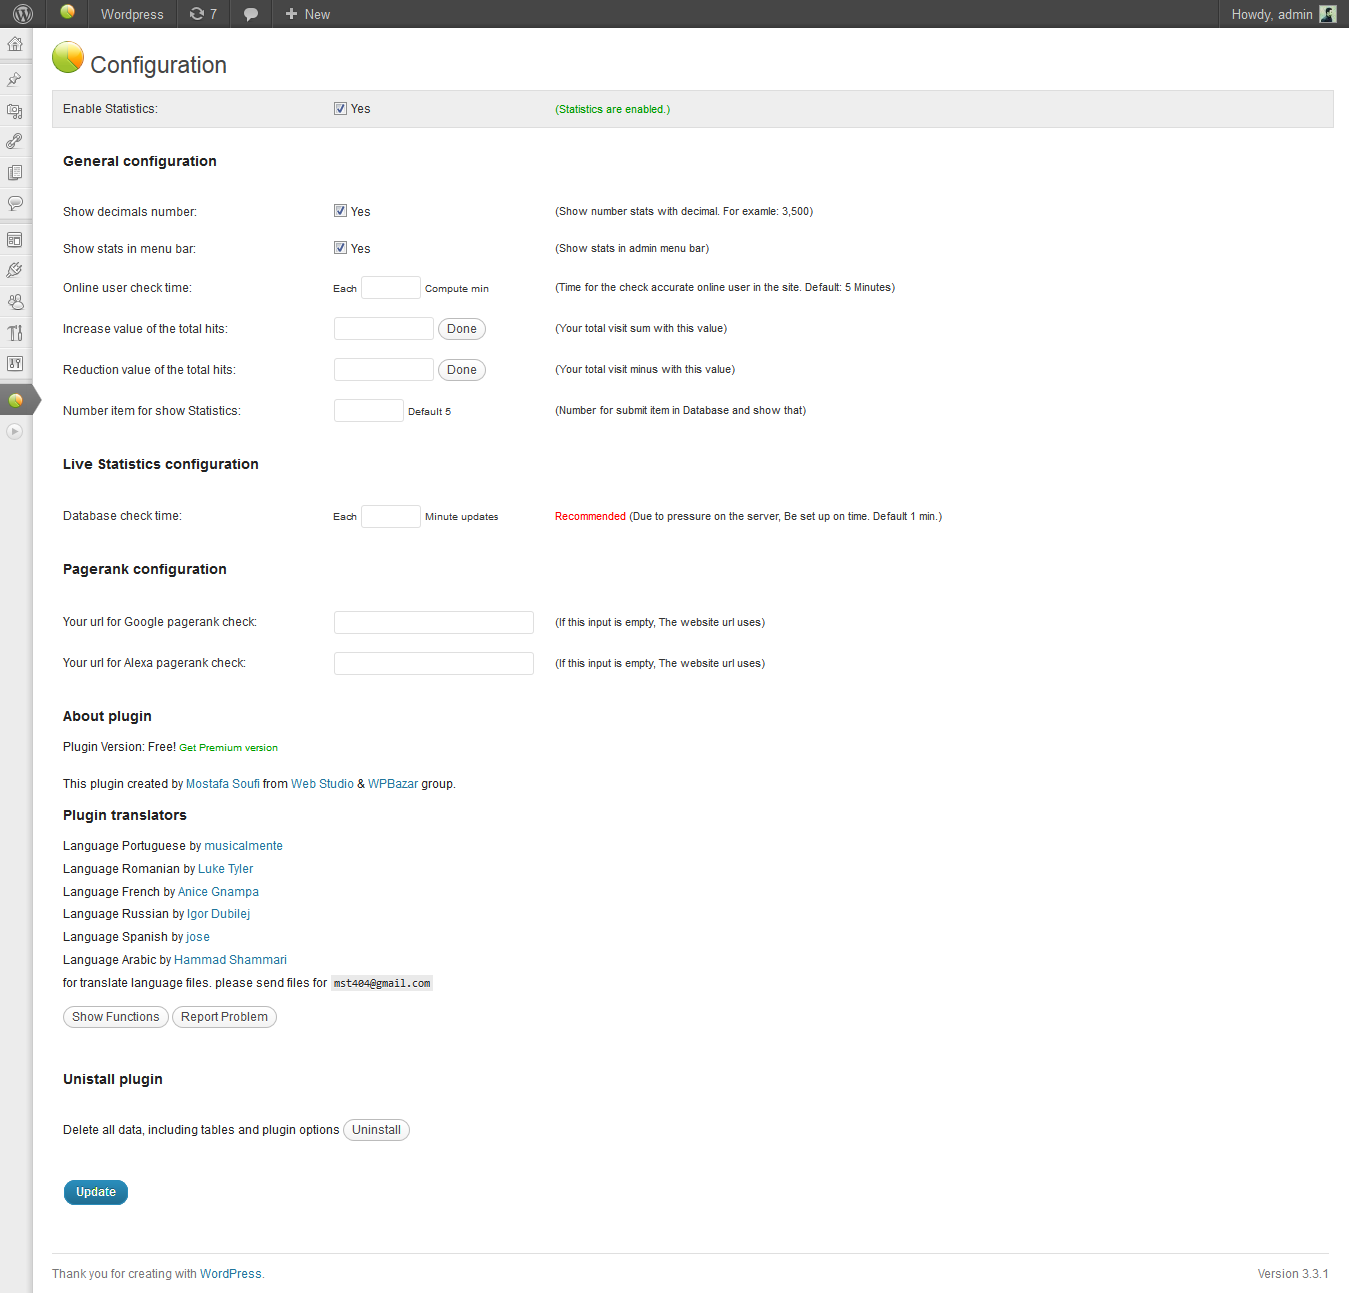
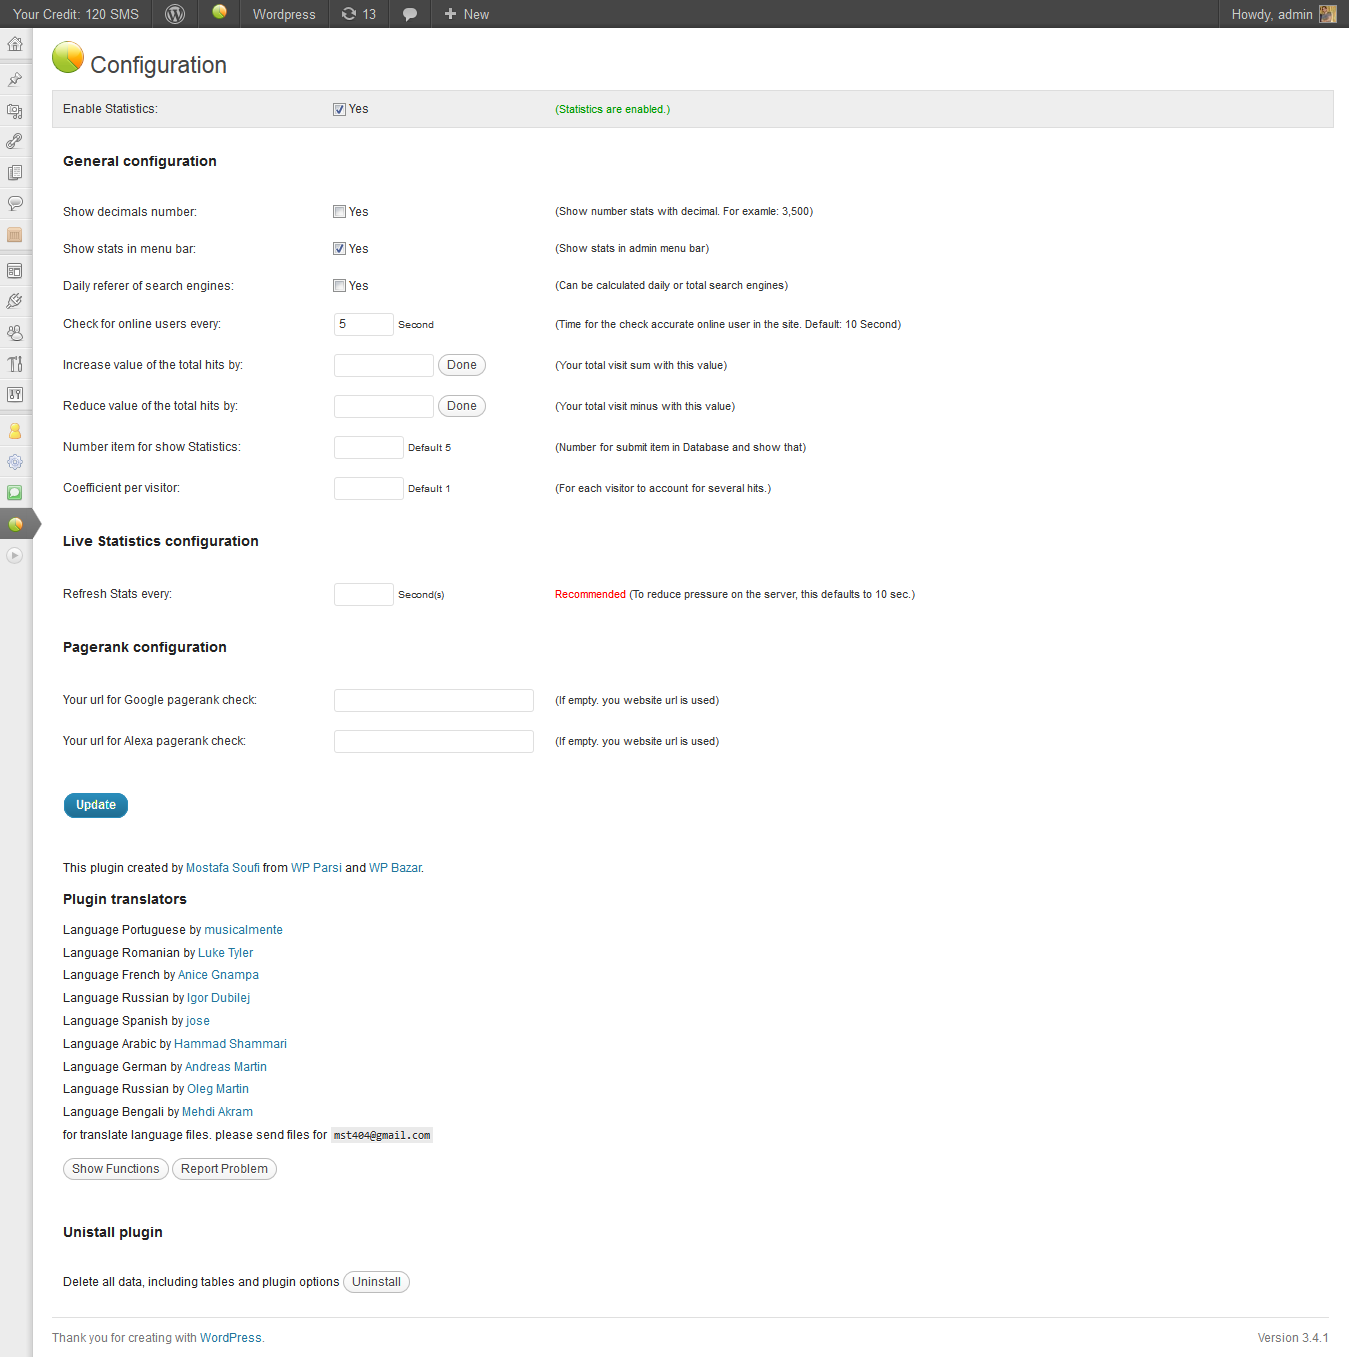
git-svn-id: https://plugins.svn.wordpress.org/wp-statistics/trunk@583426 b8457f37-d9ea-0310-8a92-e5e31aec5664

diff --git a/setting/setting.php b/setting/setting.php
@@ -223,6 +223,7 @@
 					<li><?php _e('Language', 'wp_statistics'); ?> Arabic <?php _e('by', 'wp_statistics'); ?> <a href="http://www.facebook.com/aboHatim">Hammad Shammari</a></li>
 					<li><?php _e('Language', 'wp_statistics'); ?> German <?php _e('by', 'wp_statistics'); ?> <a href="http://www.andreasmartin.com/">Andreas Martin</a></li>
 					<li><?php _e('Language', 'wp_statistics'); ?> Russian <?php _e('by', 'wp_statistics'); ?> <a href="http://www.bestplugins.ru/">Oleg Martin</a></li>
+					<li><?php _e('Language', 'wp_statistics'); ?> Bengali <?php _e('by', 'wp_statistics'); ?> <a href="http://www.shamokaldarpon.com/">Mehdi Akram</a></li>
 				</ul>
 				<?php _e('for translate language files. please send files for', 'wp_statistics'); ?> <code>mst404@gmail.com</code>
 

diff --git a/wp-statistics.php b/wp-statistics.php
@@ -3,12 +3,12 @@
 Plugin Name: WP-Statistics
 Plugin URI: http://iran98.org/category/wordpress/wp-statistics/
 Description: Summary statistics of blog.
-Version: 2.2.8
+Version: 2.2.9
 Author: Mostafa Soufi
 Author URI: http://iran98.org/
 License: GPL2
 */
-	define('WP_STATISTICS_VERSION', '2.2.8');
+	define('WP_STATISTICS_VERSION', '2.2.9');
 
 	include_once("widget.php");
 
